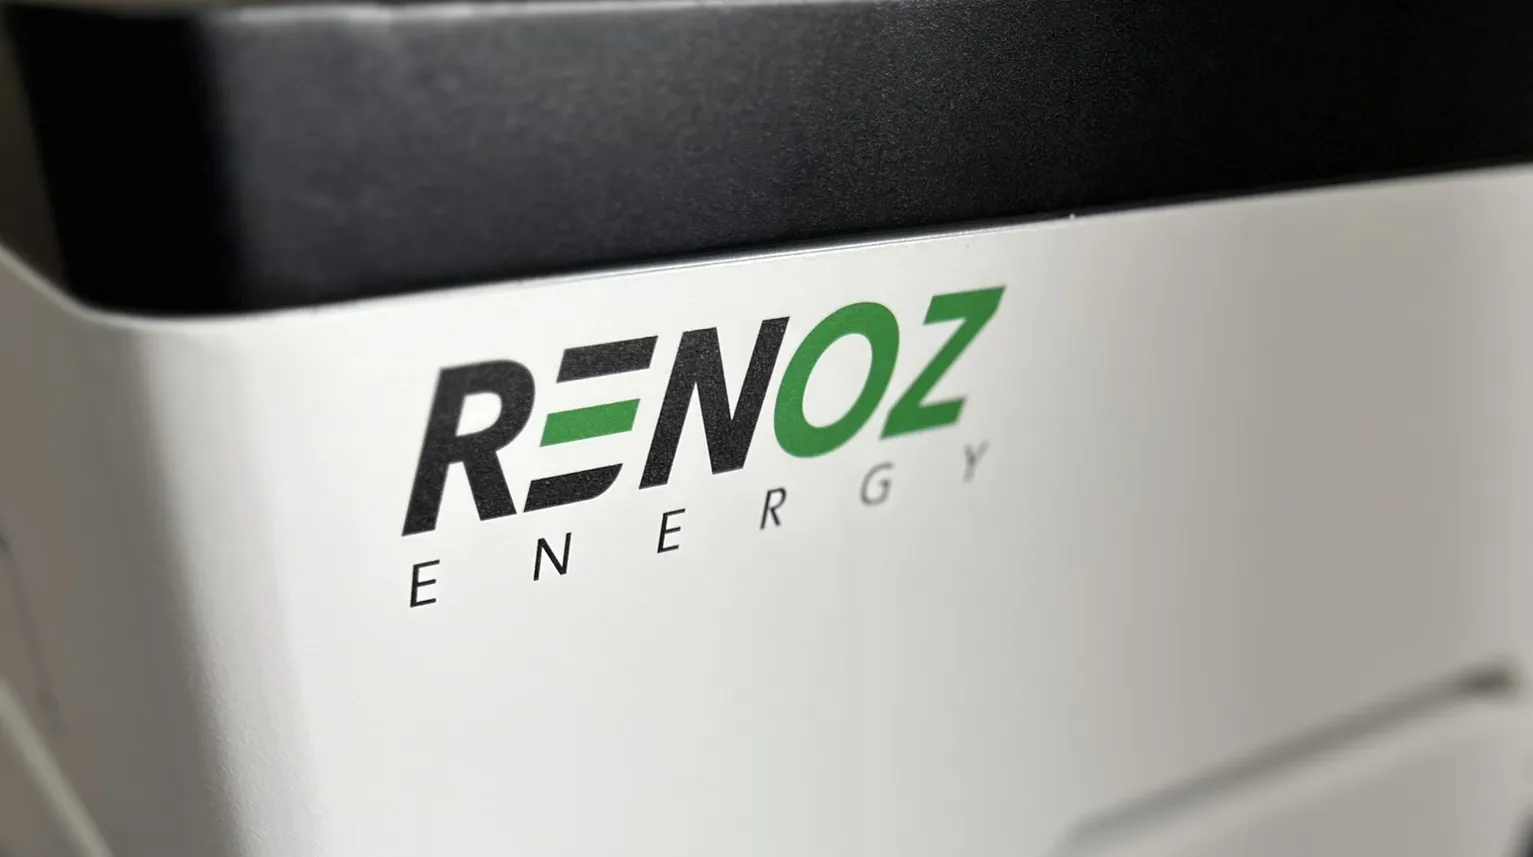
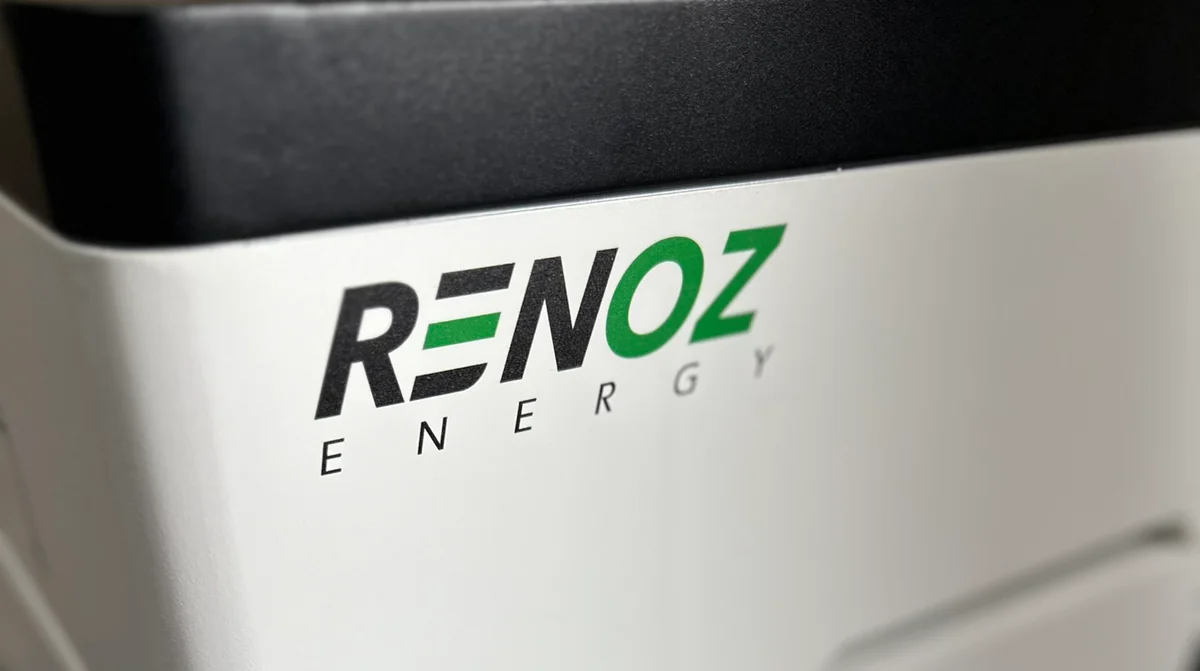
perf: convert all large PNG images to WebP format
- Convert 12 PNG files to WebP (20.15MB → 0.69MB, 96.6% reduction)
- Product renders: RENOZ Garage & LV Render (5.1MB + 5.0MB → 146KB + 57KB)
- Team photos: simon-c.png & jack-sc.png (2.3MB + 1.7MB → 91KB + 47KB)
- Background images: default-bg.png (1.8MB → 125KB)
- Partner logos: CE+T, CDI, BatteryWorks (91KB → 36KB)
- Update all image references in routes and components
- Update fallback paths to use WebP
- Massive bandwidth savings across entire site

Changed region(s): [[0.4933, 0.3279, 0.6475, 0.5365], [0.3392, 0.4471, 0.4317, 0.5365]]

diff --git a/src/routes/index.tsx b/src/routes/index.tsx
@@ -600,21 +600,21 @@ function HomePage() {
 							className="h-12 w-auto object-contain hover:scale-105 transition-all"
 						/>
 						<Image
-							src="/images/partners/CDI Energy Logo.png"
+							src="/images/partners/CDI Energy Logo.webp"
 							alt="CDI Energy"
 							width={180}
 							height={60}
 							className="h-14 w-auto object-contain hover:scale-105 transition-all"
 						/>
 						<Image
-							src="/images/partners/CE+T Logo.png"
+							src="/images/partners/CE+T Logo.webp"
 							alt="CE+T Australia"
 							width={180}
 							height={50}
 							className="h-12 w-auto object-contain hover:scale-105 transition-all"
 						/>
 						<Image
-							src="/images/partners/BatteryWorks.png"
+							src="/images/partners/BatteryWorks.webp"
 							alt="Battery Works"
 							width={180}
 							height={60}

diff --git a/src/components/layout/Header.tsx b/src/components/layout/Header.tsx
@@ -49,7 +49,7 @@ export default function Header() {
 						<Link to="/" className="flex items-center group">
 							<Image
 								src="/images/optimized/logo-white-natural.webp"
-								fallback="/images/optimized/logo-white-natural.png"
+								fallback="/images/optimized/logo-white-natural.webp"
 								alt="RENOZ Energy"
 								width={160}
 								height={40}
@@ -108,7 +108,7 @@ export default function Header() {
 							<div className="flex items-center justify-between p-6 border-b border-white/10">
 								<Image
 									src="/images/optimized/logo-white-natural.webp"
-									fallback="/images/optimized/logo-white-natural.png"
+									fallback="/images/optimized/logo-white-natural.webp"
 									alt="RENOZ Energy"
 									width={128}
 									height={32}

diff --git a/src/routes/about.tsx b/src/routes/about.tsx
@@ -102,15 +102,15 @@ function AboutPage() {
 			logo: "/images/partners/brill-power-logo.svg",
 			width: 140,
 		},
-		{ name: "CE+T Power", logo: "/images/partners/CE+T Logo.png", width: 120 },
+		{ name: "CE+T Power", logo: "/images/partners/CE+T Logo.webp", width: 120 },
 		{
 			name: "CDI Energy",
-			logo: "/images/partners/CDI Energy Logo.png",
+			logo: "/images/partners/CDI Energy Logo.webp",
 			width: 130,
 		},
 		{
 			name: "Battery Works",
-			logo: "/images/partners/BatteryWorks.png",
+			logo: "/images/partners/BatteryWorks.webp",
 			width: 140,
 		},
 	];

diff --git a/src/routes/products/index.tsx b/src/routes/products/index.tsx
@@ -133,7 +133,7 @@ function ProductsPage() {
 							</div>
 							<div className="relative h-[400px] lg:h-auto bg-gray-100 order-1 lg:order-2">
 								<img
-									src="/images/products/RENOZ%20Energy%20Garage%20Render.png"
+									src="/images/products/RENOZ%20Energy%20Garage%20Render.webp"
 									alt="Residential Battery System"
 									className="absolute inset-0 w-full h-full object-cover"
 								/>

diff --git a/src/routes/products/residential.tsx b/src/routes/products/residential.tsx
@@ -193,7 +193,7 @@ function ResidentialProductsPage() {
 							whileInView={{ opacity: 1, scale: 1 }}
 							viewport={{ once: true }}
 							transition={{ duration: 0.8 }}
-							src="/images/products/RENOZ Energy LV Render.png"
+							src="/images/products/RENOZ Energy LV Render.webp"
 							alt="Stackable Design"
 							className="max-h-full w-auto object-contain drop-shadow-2xl"
 						/>

diff --git a/src/components/layout/Footer.tsx b/src/components/layout/Footer.tsx
@@ -28,7 +28,7 @@ export default function Footer() {
 									className="h-8 w-auto"
 									onError={(e) => {
 										const target = e.target as HTMLImageElement;
-										target.src = "/images/optimized/logo-white-natural.png";
+										target.src = "/images/optimized/logo-white-natural.webp";
 									}}
 								/>
 							</Link>
